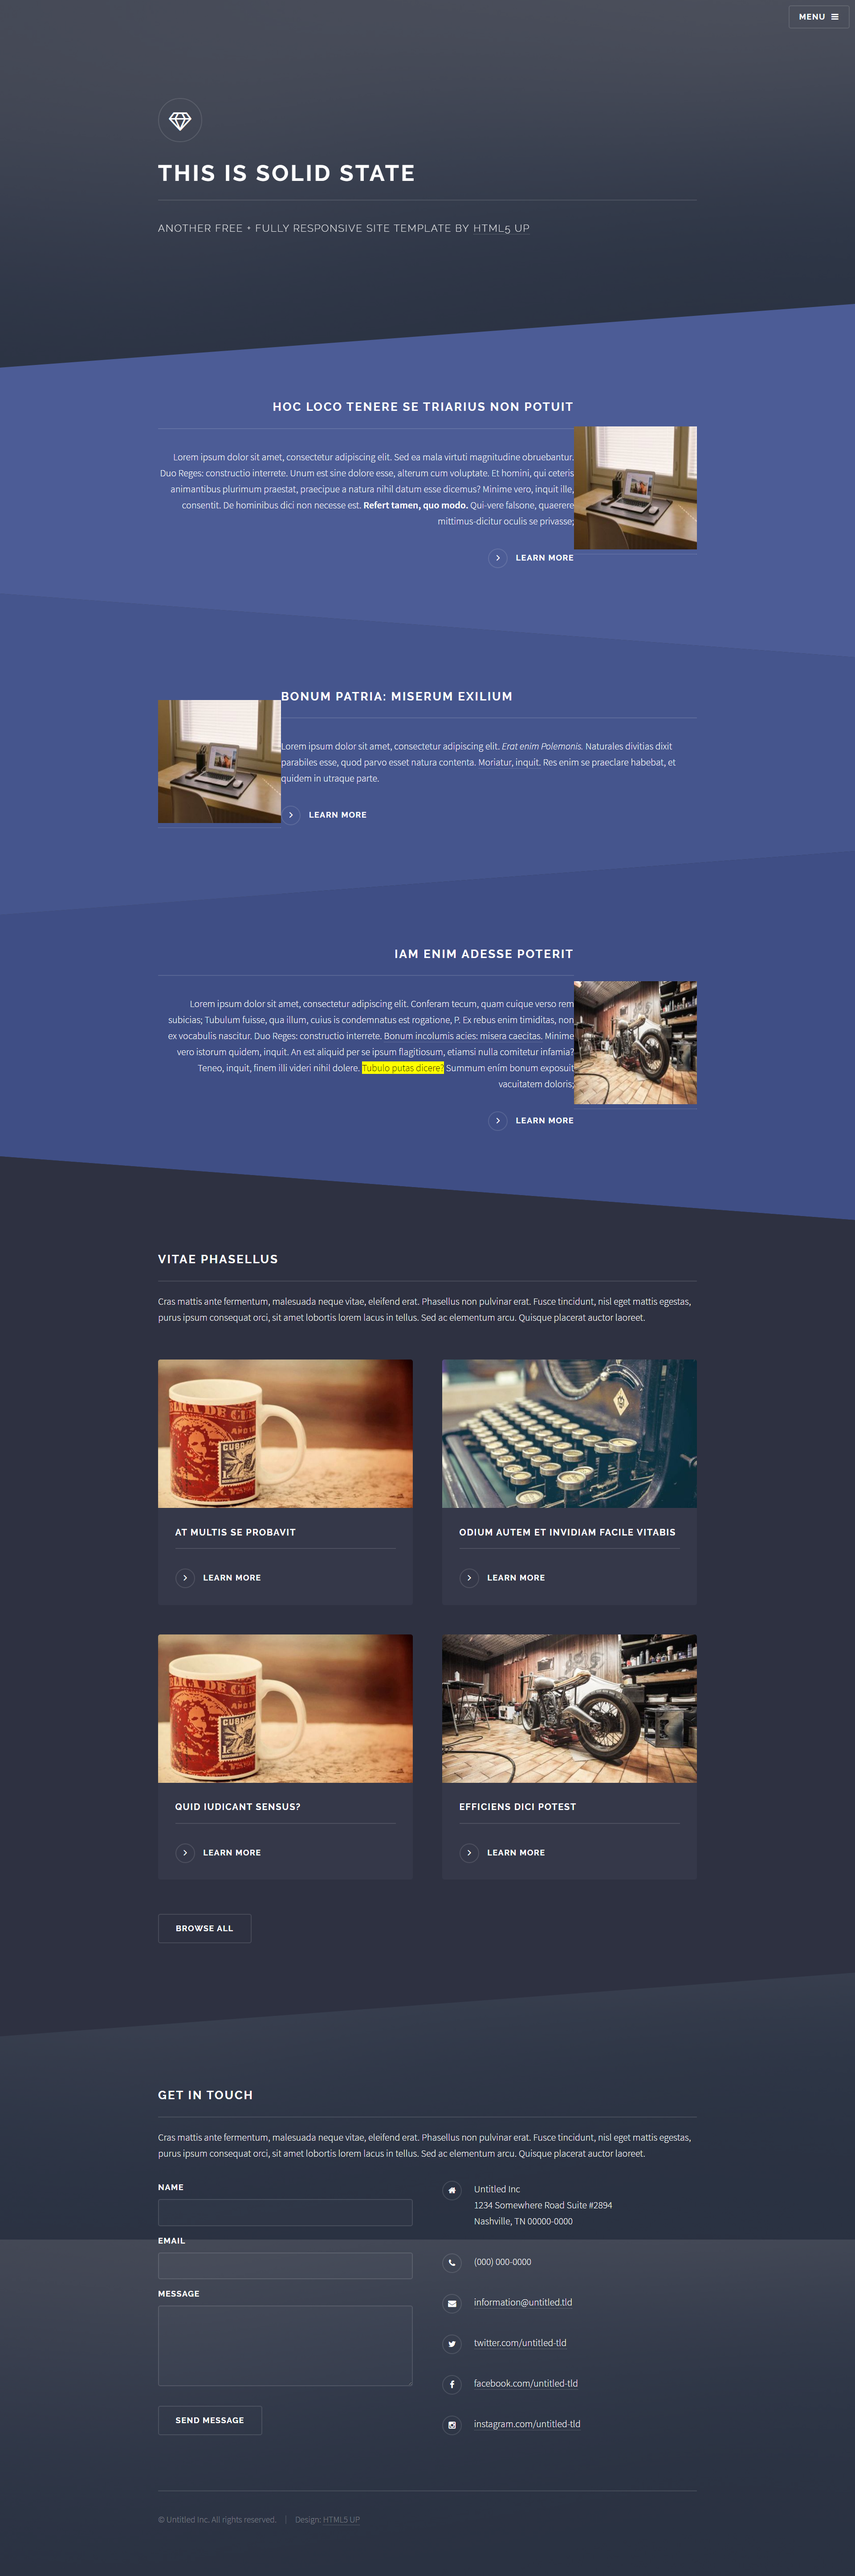
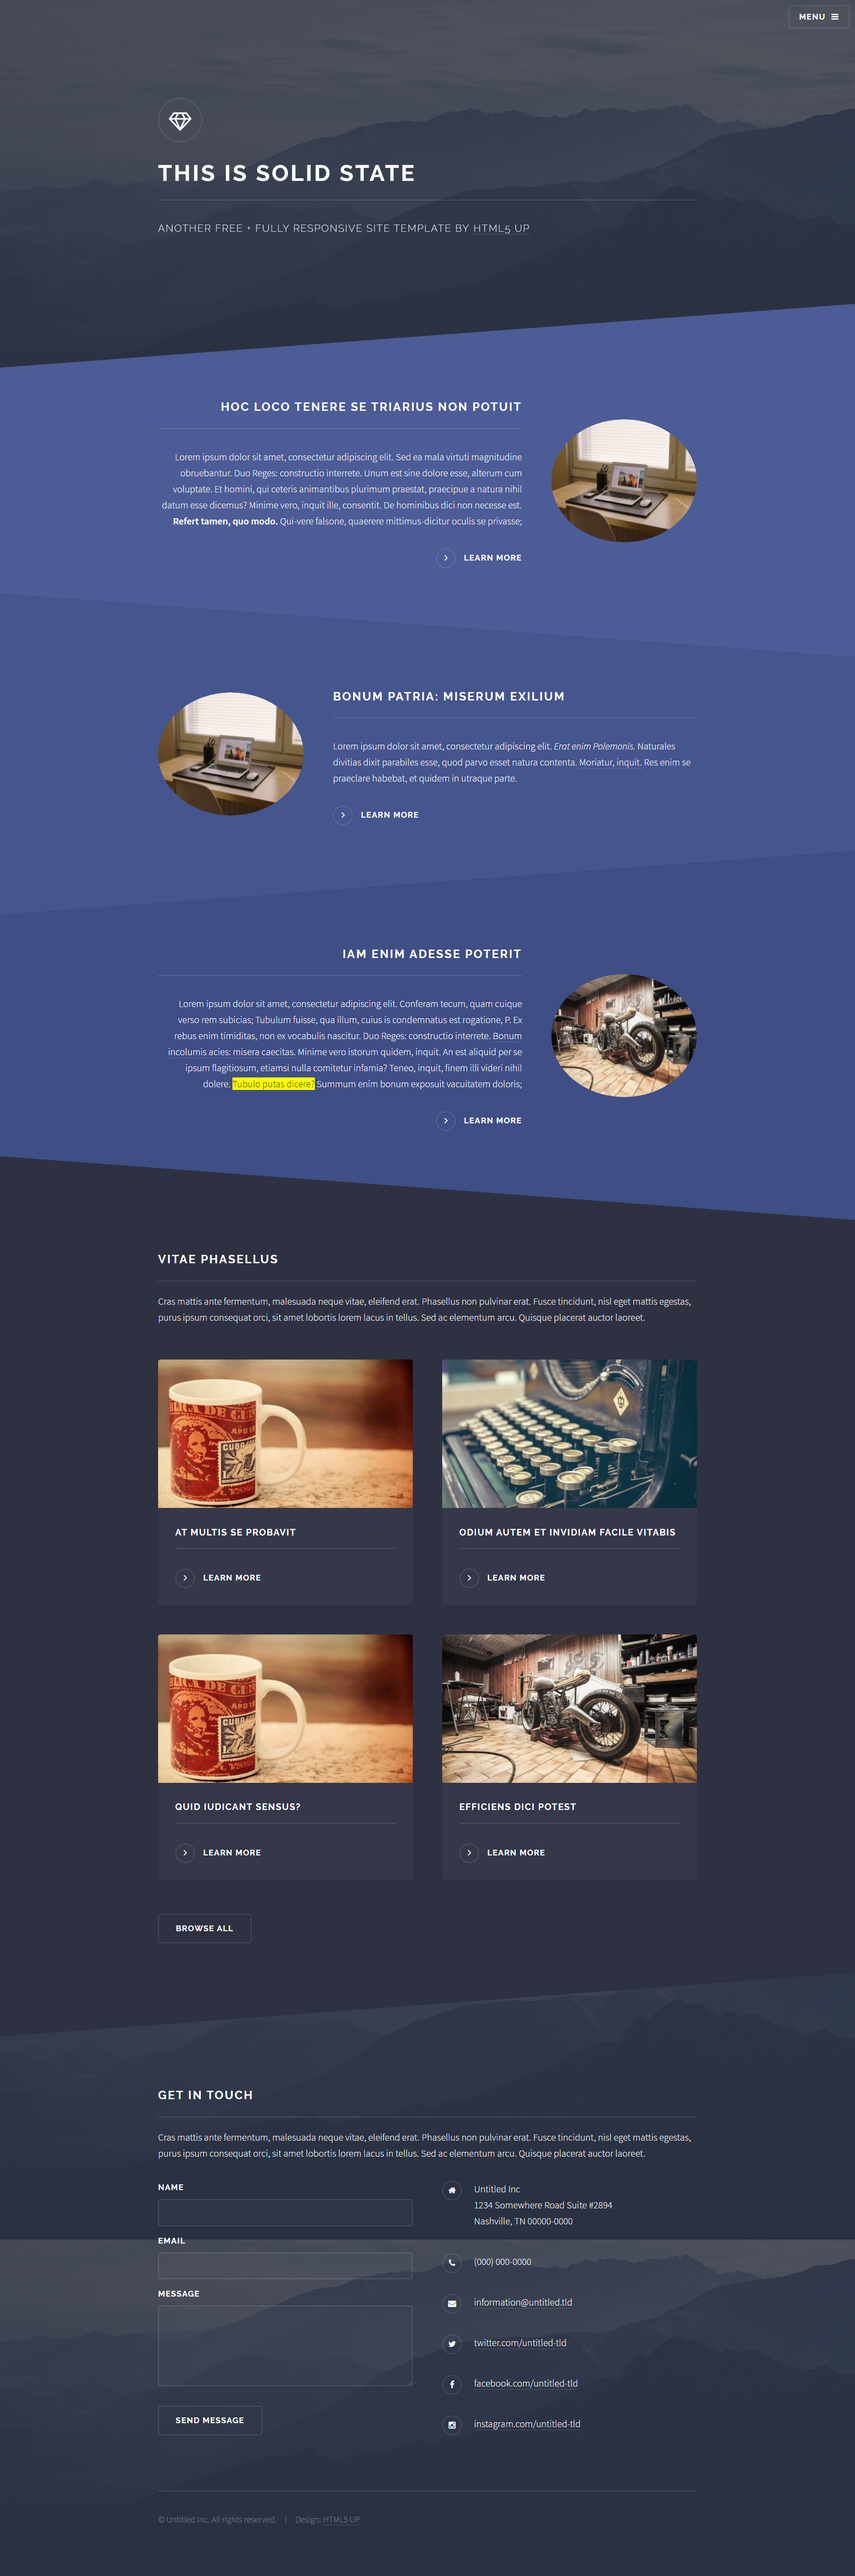
Now background images are loaded

Changed region(s): [[0.2188, 0.3736, 0.8125, 0.4359], [0.2188, 0.1557, 0.8125, 0.218], [0.1875, 0.2491, 0.625, 0.3425]]

diff --git a/css/main.css b/css/main.css
@@ -1624,7 +1624,7 @@
 
 	body {
 		background-color: #2e3141;
-		background-image: linear-gradient(to top, rgba(46, 49, 65, 0.8), rgba(46, 49, 65, 0.8)), url("../../images/bg.jpg");
+		background-image: linear-gradient(to top, rgba(46, 49, 65, 0.8), rgba(46, 49, 65, 0.8)), url("../images/bg.jpg");
 		background-size: auto, cover;
 		background-attachment: fixed, fixed;
 		background-position: center, center;
@@ -2948,6 +2948,7 @@
 		#menu h2 {
 			border-bottom: solid 2px rgba(255, 255, 255, 0.125);
 			padding-bottom: 1em;
+
 		}
 
 		#menu .close {
@@ -3138,7 +3139,7 @@
 			#banner {
 				padding: 7em 0 8.25em 0 ;
 				background-color: #2e3141;
-				background-image: linear-gradient(to top, rgba(46, 49, 65, 0.8), rgba(46, 49, 65, 0.8)), url("../../images/bg.jpg");
+				background-image: linear-gradient(to top, rgba(46, 49, 65, 0.8), rgba(46, 49, 65, 0.8)), url("../images/bg.jpg");
 				background-size: auto, cover;
 				background-position: center, center;
 				margin-bottom: -6.5em;
@@ -3248,7 +3249,7 @@
 		#wrapper > header {
 			padding: 9em 0 6.25em 0 ;
 			background-color: #2e3141;
-			background-image: linear-gradient(to top, rgba(46, 49, 65, 0.8), rgba(46, 49, 65, 0.8)), url("../../images/bg.jpg");
+			background-image: linear-gradient(to top, rgba(46, 49, 65, 0.8), rgba(46, 49, 65, 0.8)), url("../images/bg.jpg");
 			background-size: auto, cover;
 			background-position: center, 0% 30%;
 			margin-bottom: -6.5em;
@@ -3640,7 +3641,7 @@
 
 		#footer {
 			background-color: #2e3141;
-			background-image: linear-gradient(to top, rgba(46, 49, 65, 0.8), rgba(46, 49, 65, 0.8)), url("../../images/bg.jpg");
+			background-image: linear-gradient(to top, rgba(46, 49, 65, 0.8), rgba(46, 49, 65, 0.8)), url("../images/bg.jpg");
 			background-size: auto, cover;
 			background-position: center, center;
 			margin-top: -6.5em;

diff --git a/elements.html b/elements.html
@@ -10,9 +10,9 @@
 		<meta charset="utf-8" />
 		<meta name="viewport" content="width=device-width, initial-scale=1" />
 		<!--[if lte IE 8]><script src="assets/js/ie/html5shiv.js"></script><![endif]-->
-		<link rel="stylesheet" href="assets/css/main.css" />
-		<!--[if lte IE 9]><link rel="stylesheet" href="assets/css/ie9.css" /><![endif]-->
-		<!--[if lte IE 8]><link rel="stylesheet" href="assets/css/ie8.css" /><![endif]-->
+		<link rel="stylesheet" href="css/main.css" />
+		<!--[if lte IE 9]><link rel="stylesheet" href="css/ie9.css" /><![endif]-->
+		<!--[if lte IE 8]><link rel="stylesheet" href="css/ie8.css" /><![endif]-->
 	</head>
 	<body>
 
@@ -396,12 +396,12 @@ print 'It took ' + i + ' iterations to sort the deck.';</code></pre>
 			</div>
 
 		<!-- Scripts -->
-			<script src="assets/js/skel.min.js"></script>
-			<script src="assets/js/jquery.min.js"></script>
-			<script src="assets/js/jquery.scrollex.min.js"></script>
-			<script src="assets/js/util.js"></script>
-			<!--[if lte IE 8]><script src="assets/js/ie/respond.min.js"></script><![endif]-->
-			<script src="assets/js/main.js"></script>
+			<script src="js/skel.min.js"></script>
+			<script src="js/jquery.min.js"></script>
+			<script src="js/jquery.scrollex.min.js"></script>
+			<script src="js/util.js"></script>
+			<!--[if lte IE 8]><script src="js/ie/respond.min.js"></script><![endif]-->
+			<script src="js/main.js"></script>
 
 	</body>
 </html>
